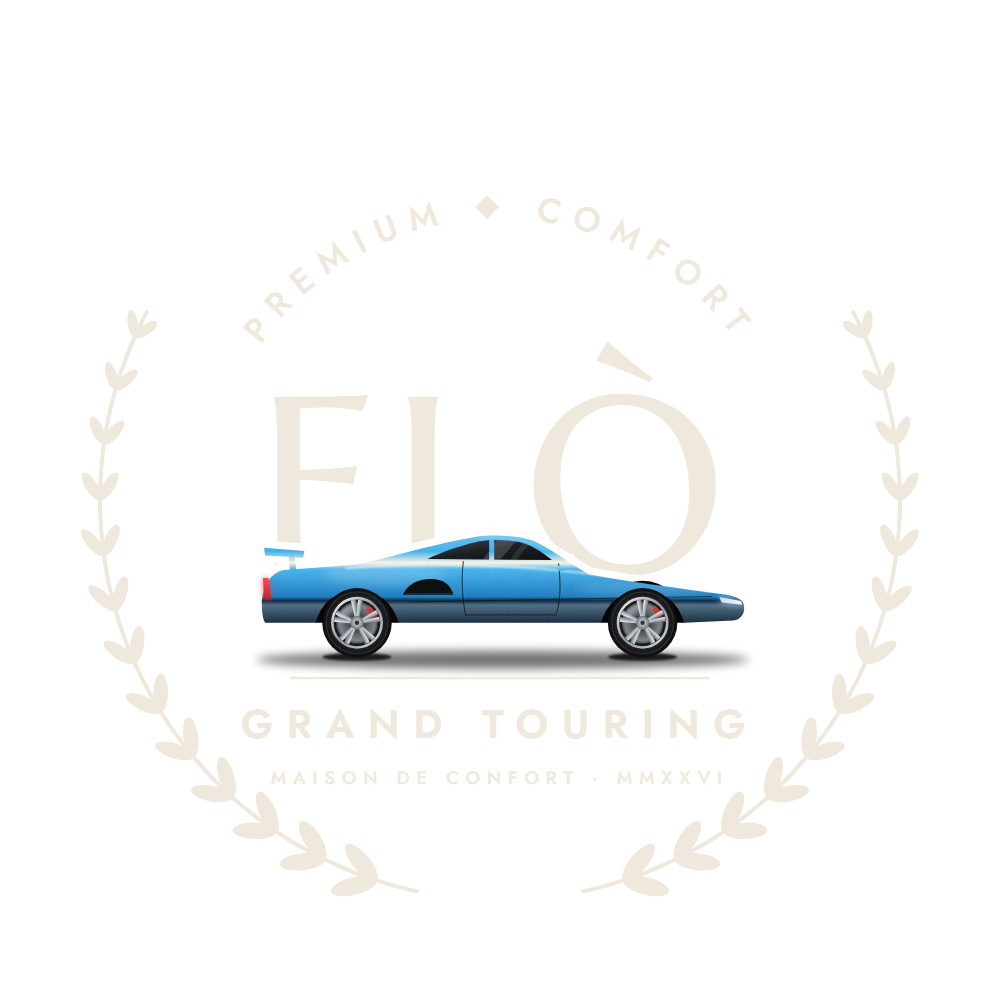
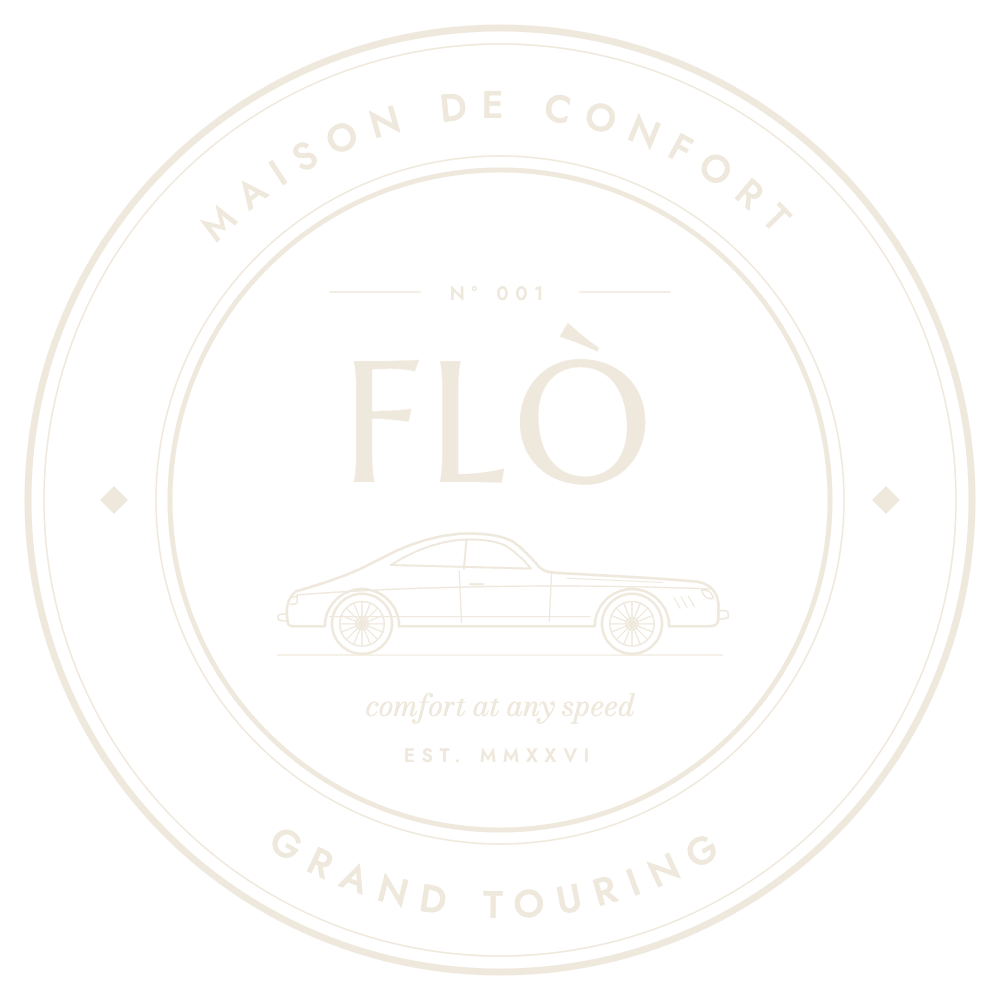
Rebuild the artwork as print-ready, less clip-art designs; real contact and social links
- New Grand Touring back print: a 70s travel-poster scene (arched frame, striped sun, desert ridges,
  halftone sky) with a hand-drawn grand tourer, in place of the photo-style sticker.
- New crest: an engraved-style badge with double rings, lettering around the band, FLÒ in Marcellus and
  a fine-line drawing of the car, in place of the laurel and cartoon car.
- Wordmark redrawn. SVG sources live in artwork/, with 4500 px transparent PNGs for Printify in
  artwork/print/ and 1000 px copies for the site.
- Footer: contact jmoy2077@gmail.com; Instagram and TikTok link to @jomohoops.
- Hero and product copy describe the new print; share image updated.

diff --git a/index.html b/index.html
@@ -15,7 +15,7 @@
 <link rel="icon" href="assets/img/favicon.svg" type="image/svg+xml">
 <link rel="preload" href="assets/fonts/bodoni-moda-latin-wght-normal.woff2" as="font" type="font/woff2" crossorigin>
 <link rel="preload" href="assets/fonts/jost-latin-wght-normal.woff2" as="font" type="font/woff2" crossorigin>
-<link rel="stylesheet" href="assets/css/style.css?v=10">
+<link rel="stylesheet" href="assets/css/style.css?v=11">
 </head>
 <body>
 <div class="announce"><span class="label">Free shipping on orders over $150<span class="hide-sm"> &nbsp;·&nbsp; Every piece made to order</span></span></div>
@@ -54,7 +54,7 @@
   <div class="hero__copy">
     <p class="label">New · The Grand Touring Tee</p>
     <h1 class="display hero__title">Comfort at <em>any speed.</em></h1>
-    <p class="hero__sub">A low-slung grand tourer parked across an oversized flò, printed full-size on our heavyweight tee.</p>
+    <p class="hero__sub">A grand tourer on a desert road at golden hour, printed full-size on our heavyweight tee.</p>
     <div class="hero__ctas">
       <a class="btn btn--white" href="shop.html">Shop the drop</a>
       <a class="btn btn--light" href="product.html?id=grand-touring-tee">Shop the tee · $54</a>
@@ -138,13 +138,13 @@
       <li><a href="about.html#shipping">Shipping</a></li>
       <li><a href="about.html#returns">Returns &amp; exchanges</a></li>
       <li><a href="about.html#sizing">Size guide</a></li>
-      <li><a href="mailto:hello@example.com">Contact us</a></li></ul></div>
+      <li><a href="mailto:jmoy2077@gmail.com">Contact us</a></li></ul></div>
     <div><p class="label">The house</p><ul>
       <li><a href="about.html">Our story</a></li>
       <li><a href="about.html#made-to-order">Made to order</a></li></ul></div>
     <div><p class="label">Follow</p><ul>
-      <li><span class="soon">Instagram, soon</span></li>
-      <li><span class="soon">TikTok, soon</span></li></ul></div>
+      <li><a href="https://www.instagram.com/jomohoops/" target="_blank" rel="noopener">Instagram</a></li>
+      <li><a href="https://www.tiktok.com/@jomohoops" target="_blank" rel="noopener">TikTok</a></li></ul></div>
   </div>
   <div class="footer__mark" aria-hidden="true">flò</div>
   <div class="footer__base label label--mute">
@@ -168,8 +168,8 @@
   </div>
 </aside>
 <div class="toast label" id="toast" role="status" aria-live="polite"></div>
-<script src="assets/js/config.js?v=10"></script>
-<script src="assets/js/garments.js?v=10"></script>
-<script src="assets/js/app.js?v=10"></script>
+<script src="assets/js/config.js?v=11"></script>
+<script src="assets/js/garments.js?v=11"></script>
+<script src="assets/js/app.js?v=11"></script>
 </body>
 </html>

diff --git a/success.html b/success.html
@@ -15,7 +15,7 @@
 <link rel="icon" href="assets/img/favicon.svg" type="image/svg+xml">
 <link rel="preload" href="assets/fonts/bodoni-moda-latin-wght-normal.woff2" as="font" type="font/woff2" crossorigin>
 <link rel="preload" href="assets/fonts/jost-latin-wght-normal.woff2" as="font" type="font/woff2" crossorigin>
-<link rel="stylesheet" href="assets/css/style.css?v=10">
+<link rel="stylesheet" href="assets/css/style.css?v=11">
 </head>
 <body data-page="success">
 <div class="announce"><span class="label">Free shipping on orders over $150<span class="hide-sm"> &nbsp;·&nbsp; Every piece made to order</span></span></div>
@@ -64,13 +64,13 @@
       <li><a href="about.html#shipping">Shipping</a></li>
       <li><a href="about.html#returns">Returns &amp; exchanges</a></li>
       <li><a href="about.html#sizing">Size guide</a></li>
-      <li><a href="mailto:hello@example.com">Contact us</a></li></ul></div>
+      <li><a href="mailto:jmoy2077@gmail.com">Contact us</a></li></ul></div>
     <div><p class="label">The house</p><ul>
       <li><a href="about.html">Our story</a></li>
       <li><a href="about.html#made-to-order">Made to order</a></li></ul></div>
     <div><p class="label">Follow</p><ul>
-      <li><span class="soon">Instagram, soon</span></li>
-      <li><span class="soon">TikTok, soon</span></li></ul></div>
+      <li><a href="https://www.instagram.com/jomohoops/" target="_blank" rel="noopener">Instagram</a></li>
+      <li><a href="https://www.tiktok.com/@jomohoops" target="_blank" rel="noopener">TikTok</a></li></ul></div>
   </div>
   <div class="footer__mark" aria-hidden="true">flò</div>
   <div class="footer__base label label--mute">
@@ -94,8 +94,8 @@
   </div>
 </aside>
 <div class="toast label" id="toast" role="status" aria-live="polite"></div>
-<script src="assets/js/config.js?v=10"></script>
-<script src="assets/js/garments.js?v=10"></script>
-<script src="assets/js/app.js?v=10"></script>
+<script src="assets/js/config.js?v=11"></script>
+<script src="assets/js/garments.js?v=11"></script>
+<script src="assets/js/app.js?v=11"></script>
 </body>
 </html>

diff --git a/about.html b/about.html
@@ -15,7 +15,7 @@
 <link rel="icon" href="assets/img/favicon.svg" type="image/svg+xml">
 <link rel="preload" href="assets/fonts/bodoni-moda-latin-wght-normal.woff2" as="font" type="font/woff2" crossorigin>
 <link rel="preload" href="assets/fonts/jost-latin-wght-normal.woff2" as="font" type="font/woff2" crossorigin>
-<link rel="stylesheet" href="assets/css/style.css?v=10">
+<link rel="stylesheet" href="assets/css/style.css?v=11">
 </head>
 <body>
 <div class="announce"><span class="label">Free shipping on orders over $150<span class="hide-sm"> &nbsp;·&nbsp; Every piece made to order</span></span></div>
@@ -90,13 +90,13 @@
       <li><a href="about.html#shipping">Shipping</a></li>
       <li><a href="about.html#returns">Returns &amp; exchanges</a></li>
       <li><a href="about.html#sizing">Size guide</a></li>
-      <li><a href="mailto:hello@example.com">Contact us</a></li></ul></div>
+      <li><a href="mailto:jmoy2077@gmail.com">Contact us</a></li></ul></div>
     <div><p class="label">The house</p><ul>
       <li><a href="about.html">Our story</a></li>
       <li><a href="about.html#made-to-order">Made to order</a></li></ul></div>
     <div><p class="label">Follow</p><ul>
-      <li><span class="soon">Instagram, soon</span></li>
-      <li><span class="soon">TikTok, soon</span></li></ul></div>
+      <li><a href="https://www.instagram.com/jomohoops/" target="_blank" rel="noopener">Instagram</a></li>
+      <li><a href="https://www.tiktok.com/@jomohoops" target="_blank" rel="noopener">TikTok</a></li></ul></div>
   </div>
   <div class="footer__mark" aria-hidden="true">flò</div>
   <div class="footer__base label label--mute">
@@ -120,8 +120,8 @@
   </div>
 </aside>
 <div class="toast label" id="toast" role="status" aria-live="polite"></div>
-<script src="assets/js/config.js?v=10"></script>
-<script src="assets/js/garments.js?v=10"></script>
-<script src="assets/js/app.js?v=10"></script>
+<script src="assets/js/config.js?v=11"></script>
+<script src="assets/js/garments.js?v=11"></script>
+<script src="assets/js/app.js?v=11"></script>
 </body>
 </html>

diff --git a/product.html b/product.html
@@ -15,7 +15,7 @@
 <link rel="icon" href="assets/img/favicon.svg" type="image/svg+xml">
 <link rel="preload" href="assets/fonts/bodoni-moda-latin-wght-normal.woff2" as="font" type="font/woff2" crossorigin>
 <link rel="preload" href="assets/fonts/jost-latin-wght-normal.woff2" as="font" type="font/woff2" crossorigin>
-<link rel="stylesheet" href="assets/css/style.css?v=10">
+<link rel="stylesheet" href="assets/css/style.css?v=11">
 </head>
 <body>
 <div class="announce"><span class="label">Free shipping on orders over $150<span class="hide-sm"> &nbsp;·&nbsp; Every piece made to order</span></span></div>
@@ -89,13 +89,13 @@
       <li><a href="about.html#shipping">Shipping</a></li>
       <li><a href="about.html#returns">Returns &amp; exchanges</a></li>
       <li><a href="about.html#sizing">Size guide</a></li>
-      <li><a href="mailto:hello@example.com">Contact us</a></li></ul></div>
+      <li><a href="mailto:jmoy2077@gmail.com">Contact us</a></li></ul></div>
     <div><p class="label">The house</p><ul>
       <li><a href="about.html">Our story</a></li>
       <li><a href="about.html#made-to-order">Made to order</a></li></ul></div>
     <div><p class="label">Follow</p><ul>
-      <li><span class="soon">Instagram, soon</span></li>
-      <li><span class="soon">TikTok, soon</span></li></ul></div>
+      <li><a href="https://www.instagram.com/jomohoops/" target="_blank" rel="noopener">Instagram</a></li>
+      <li><a href="https://www.tiktok.com/@jomohoops" target="_blank" rel="noopener">TikTok</a></li></ul></div>
   </div>
   <div class="footer__mark" aria-hidden="true">flò</div>
   <div class="footer__base label label--mute">
@@ -119,8 +119,8 @@
   </div>
 </aside>
 <div class="toast label" id="toast" role="status" aria-live="polite"></div>
-<script src="assets/js/config.js?v=10"></script>
-<script src="assets/js/garments.js?v=10"></script>
-<script src="assets/js/app.js?v=10"></script>
+<script src="assets/js/config.js?v=11"></script>
+<script src="assets/js/garments.js?v=11"></script>
+<script src="assets/js/app.js?v=11"></script>
 </body>
 </html>

diff --git a/shop.html b/shop.html
@@ -15,7 +15,7 @@
 <link rel="icon" href="assets/img/favicon.svg" type="image/svg+xml">
 <link rel="preload" href="assets/fonts/bodoni-moda-latin-wght-normal.woff2" as="font" type="font/woff2" crossorigin>
 <link rel="preload" href="assets/fonts/jost-latin-wght-normal.woff2" as="font" type="font/woff2" crossorigin>
-<link rel="stylesheet" href="assets/css/style.css?v=10">
+<link rel="stylesheet" href="assets/css/style.css?v=11">
 </head>
 <body>
 <div class="announce"><span class="label">Free shipping on orders over $150<span class="hide-sm"> &nbsp;·&nbsp; Every piece made to order</span></span></div>
@@ -85,13 +85,13 @@
       <li><a href="about.html#shipping">Shipping</a></li>
       <li><a href="about.html#returns">Returns &amp; exchanges</a></li>
       <li><a href="about.html#sizing">Size guide</a></li>
-      <li><a href="mailto:hello@example.com">Contact us</a></li></ul></div>
+      <li><a href="mailto:jmoy2077@gmail.com">Contact us</a></li></ul></div>
     <div><p class="label">The house</p><ul>
       <li><a href="about.html">Our story</a></li>
       <li><a href="about.html#made-to-order">Made to order</a></li></ul></div>
     <div><p class="label">Follow</p><ul>
-      <li><span class="soon">Instagram, soon</span></li>
-      <li><span class="soon">TikTok, soon</span></li></ul></div>
+      <li><a href="https://www.instagram.com/jomohoops/" target="_blank" rel="noopener">Instagram</a></li>
+      <li><a href="https://www.tiktok.com/@jomohoops" target="_blank" rel="noopener">TikTok</a></li></ul></div>
   </div>
   <div class="footer__mark" aria-hidden="true">flò</div>
   <div class="footer__base label label--mute">
@@ -115,8 +115,8 @@
   </div>
 </aside>
 <div class="toast label" id="toast" role="status" aria-live="polite"></div>
-<script src="assets/js/config.js?v=10"></script>
-<script src="assets/js/garments.js?v=10"></script>
-<script src="assets/js/app.js?v=10"></script>
+<script src="assets/js/config.js?v=11"></script>
+<script src="assets/js/garments.js?v=11"></script>
+<script src="assets/js/app.js?v=11"></script>
 </body>
 </html>

diff --git a/404.html b/404.html
@@ -15,7 +15,7 @@
 <link rel="icon" href="assets/img/favicon.svg" type="image/svg+xml">
 <link rel="preload" href="assets/fonts/bodoni-moda-latin-wght-normal.woff2" as="font" type="font/woff2" crossorigin>
 <link rel="preload" href="assets/fonts/jost-latin-wght-normal.woff2" as="font" type="font/woff2" crossorigin>
-<link rel="stylesheet" href="assets/css/style.css?v=10">
+<link rel="stylesheet" href="assets/css/style.css?v=11">
 </head>
 <body>
 <div class="announce"><span class="label">Free shipping on orders over $150<span class="hide-sm"> &nbsp;·&nbsp; Every piece made to order</span></span></div>
@@ -65,13 +65,13 @@
       <li><a href="about.html#shipping">Shipping</a></li>
       <li><a href="about.html#returns">Returns &amp; exchanges</a></li>
       <li><a href="about.html#sizing">Size guide</a></li>
-      <li><a href="mailto:hello@example.com">Contact us</a></li></ul></div>
+      <li><a href="mailto:jmoy2077@gmail.com">Contact us</a></li></ul></div>
     <div><p class="label">The house</p><ul>
       <li><a href="about.html">Our story</a></li>
       <li><a href="about.html#made-to-order">Made to order</a></li></ul></div>
     <div><p class="label">Follow</p><ul>
-      <li><span class="soon">Instagram, soon</span></li>
-      <li><span class="soon">TikTok, soon</span></li></ul></div>
+      <li><a href="https://www.instagram.com/jomohoops/" target="_blank" rel="noopener">Instagram</a></li>
+      <li><a href="https://www.tiktok.com/@jomohoops" target="_blank" rel="noopener">TikTok</a></li></ul></div>
   </div>
   <div class="footer__mark" aria-hidden="true">flò</div>
   <div class="footer__base label label--mute">
@@ -95,8 +95,8 @@
   </div>
 </aside>
 <div class="toast label" id="toast" role="status" aria-live="polite"></div>
-<script src="assets/js/config.js?v=10"></script>
-<script src="assets/js/garments.js?v=10"></script>
-<script src="assets/js/app.js?v=10"></script>
+<script src="assets/js/config.js?v=11"></script>
+<script src="assets/js/garments.js?v=11"></script>
+<script src="assets/js/app.js?v=11"></script>
 </body>
 </html>

diff --git a/checkout.html b/checkout.html
@@ -12,7 +12,7 @@
 <meta name="twitter:card" content="summary_large_image">
 <link rel="icon" href="assets/img/favicon.svg" type="image/svg+xml">
 <link rel="preload" href="assets/fonts/jost-latin-wght-normal.woff2" as="font" type="font/woff2" crossorigin>
-<link rel="stylesheet" href="assets/css/style.css?v=10">
+<link rel="stylesheet" href="assets/css/style.css?v=11">
 </head>
 <body data-page="checkout">
 <header class="co-header">
@@ -102,8 +102,8 @@
 </main>
 
 <div class="toast label" id="toast" role="status" aria-live="polite"></div>
-<script src="assets/js/config.js?v=10"></script>
-<script src="assets/js/garments.js?v=10"></script>
-<script src="assets/js/checkout.js?v=10"></script>
+<script src="assets/js/config.js?v=11"></script>
+<script src="assets/js/garments.js?v=11"></script>
+<script src="assets/js/checkout.js?v=11"></script>
 </body>
 </html>

diff --git a/assets/js/garments.js b/assets/js/garments.js
@@ -121,7 +121,7 @@
       // artwork files in black, cream and white ink: assets/img/prints/<name>-<ink>.png
       const name = kind.slice(4);
       const inkName = ink === "#ffffff" ? "white" : ink === "#efe8dc" ? "cream" : "black";
-      const file = `assets/img/prints/${name}-${inkName}.png?v=2`;
+      const file = `assets/img/prints/${name}-${inkName}.png?v=3`;
       const ratio = PRINT_RATIOS[name] || 1;
       const anchor = back ? s.back : s.center;
       if (!anchor) return "";

diff --git a/assets/css/style.css b/assets/css/style.css
@@ -617,7 +617,6 @@ input { font: inherit; }
 .pdp__shot--wide .photo--product { padding: 0; object-fit: cover; mix-blend-mode: normal; }
 
 /* ---------- Phone refinements ---------- */
-.soon { color: var(--mute); font-size: 14px; }
 @media (max-width: 700px) {
   /* product cards: name on its own line, price under it, so long names don't get squeezed */
   .card__info { flex-direction: column; gap: 2px; padding: 12px 10px 0; }

diff --git a/artwork/README.md b/artwork/README.md
@@ -1,0 +1,21 @@
+# flò artwork
+
+The SVG files here are the source artwork. `print/` holds the print-ready PNGs to upload to Printify:
+4500 px wide, transparent background, one file per ink colour.
+
+| Design | Source | Print files | Use |
+| --- | --- | --- | --- |
+| Grand Touring poster | `grand-touring.svg` | `print/grand-touring-black.png` (light shirts), `print/grand-touring-cream.png` (dark shirts) | Back of the Grand Touring Tee |
+| Grand Touring crest | `crest.svg` | `print/crest-black.png`, `crest-cream.png`, `crest-white.png` | Front of the hoodie, crewneck, long sleeve and Everyday Tee |
+| Wordmark | `wordmark.svg` | `print/wordmark-black.png`, `wordmark-cream.png`, `wordmark-white.png` | Chest marks, backs, sweatpants, cap |
+
+Use black ink on light colours (Bone, Chalk, Oat, Heather, Natural) and cream or white on dark ones
+(Onyx, Espresso, Navy, Sage, Rose).
+
+The lettering and outlines in each SVG use `currentColor`, so one file makes every ink colour. The Grand
+Touring scene keeps its own colours. Fonts come from `assets/fonts`, so open the SVGs through a local
+server (`python -m http.server` in the repo root, then http://localhost:8000/artwork/crest.svg) or in a
+design app with Marcellus, Jost and Bodoni Moda installed.
+
+The website uses 1000 px copies of the same files in `assets/img/prints`. After editing a design,
+export both sizes and bump the `?v=` number on the print path in `assets/js/garments.js`.

diff --git a/README.md b/README.md
@@ -19,6 +19,7 @@ Customer ──► flò site (GitHub Pages) ──► Checkout worker (Cloudflar
 | Homepage photos | drop files in `assets/img` and list them under `photos` in `assets/js/config.js` (slots: hero, tile-tops, tile-bottoms, tile-accessories, editorial, about) |
 | Colours, fonts, spacing | `assets/css/style.css` (tokens at the top) |
 | Checkout URL, photos | `assets/js/config.js` |
+| Print artwork (sources and Printify-ready files) | `artwork/` (see `artwork/README.md`) |
 
 After changing CSS or JS, bump the `?v=` number on the `<link>` and `<script>` tags in every page so browsers fetch the new files.
 
